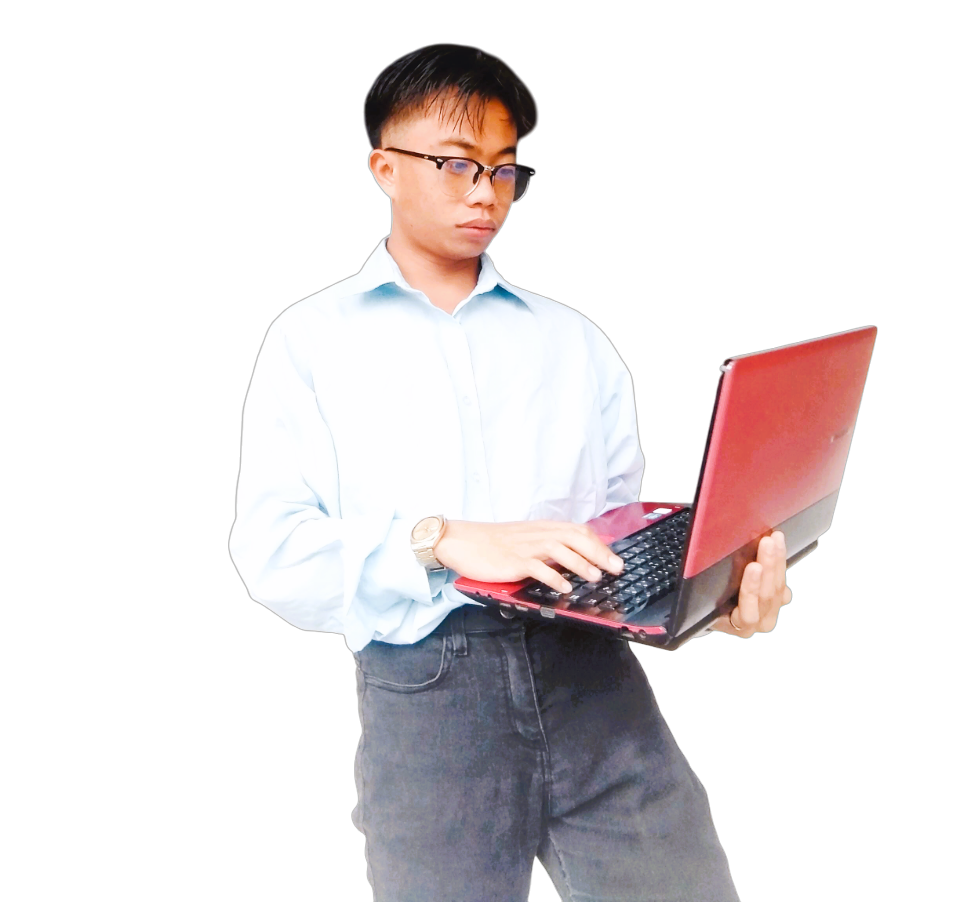
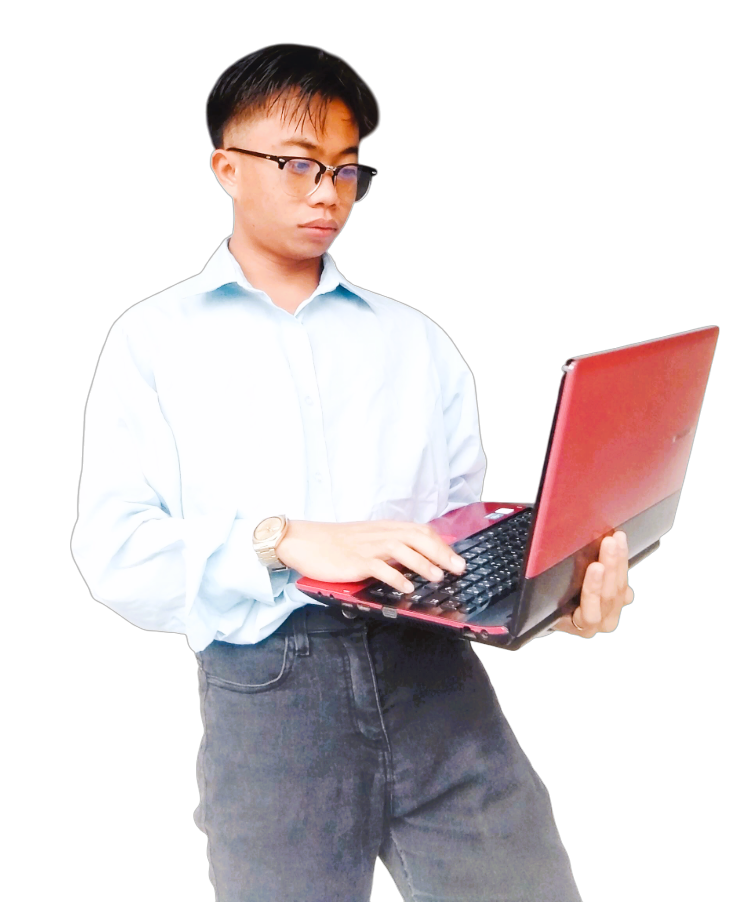
version5

diff --git a/style.css b/style.css
@@ -5,13 +5,13 @@ ul{margin-top: -4%;}
 ul li{list-style: none; display: inline-block; padding: 10px 16px;}
 ul li a{font-size: 16px; font-weight: bold; text-decoration: none; color: white; margin-top: -3%; transition: .4s ease;}
 ul li a:hover{color: orange;}
-.info{margin-left: 7%; margin-top: 7%;}
+.info{margin-left: 5%; margin-top: 7%;}
 .info h1{font-size: 65px; color: white;}
 .info h2{font-size: 18px; letter-spacing: 1px; line-height: 24px;color: white;}
 .info span{color: orange;}
 .info a{text-decoration: none;color: white;background: black;margin: 26px 0;padding: 10px 18px;border-radius: 10px;display: inline-block;transition: .4s ease;}
 .info a:hover{background: purple;}
-.image{width: 30%;height: 60%;position: absolute;right: 100px;bottom: 0;}
+.image{width: 30%;height: 60%;position: absolute;right: 90px;bottom: 0;}
 .image img{position: absolute;height: 140%;left: 40%;transform: translate(-50%);bottom: 0;transition: left 2s ease;}
 .image:hover .person{left: 55%;}
 .icons a{text-decoration: 7%;color: white;}
@@ -22,31 +22,6 @@ ul li a:hover{color: orange;}
 .about{margin-left: 50%;margin-right: 7%;}
 .about h1{font-size: 45px;color: orange;}
 .about h2{font-size: 18px;letter-spacing: 1px;line-height: 24px;color: white;text-align: justify;}
-
-.squares-container {
-    display: grid;
-    grid-template-columns: repeat(3, 1fr);
-    gap: 30px;
-    padding: 40px;
-    max-width: 1200px;
-    margin: 0 auto;
-}
-
-.square {
-    background-color: orange;
-    height: 200px;
-    display: flex;
-    flex-direction: column;
-    justify-content: center;
-    align-items: center;
-    text-align: center;
-    font-family: sans-serif;
-    padding: 10px;
-    box-shadow: 2px 2px 10px orange;
-    transition: transform 0.3s ease;
-    border-radius: 20px;
-}
-
-.square:hover {
-    transform: scale(1.05);
-}
+.squares-container {display: grid; grid-template-columns: repeat(3, 1fr); gap: 30px; padding: 40px; max-width: 1200px; margin: 0 auto;}
+.square {background-color: orange; height: 200px; display: flex; flex-direction: column; justify-content: center; align-items: center; text-align: center; font-family: sans-serif; padding: 10px; box-shadow: 2px 2px 10px orange; transition: transform 0.3s ease; border-radius: 20px}
+.square:hover {transform: scale(1.05);}

diff --git a/output.html b/output.html
@@ -1,0 +1,25 @@
+<!DOCTYPE html>
+<html lang="en">
+<head>
+    <meta charset="UTF-8">
+    <meta name="viewport" content="width=device-width, initial-scale=1.0">
+    <title>About | Sumbi's Portfolio</title>
+    <link rel="stylesheet" href="style.css">
+</head>
+<body>
+    <div class="main">
+
+        <div class="navbar">  
+            <img src="img/logo.png" class="logo">
+            
+            <ul>
+                <li><a href="index.html">HOME</a></li>
+                <li><a href="about.html">ABOUT</a></li>
+                <li><a href="skills.html">SKILLS</a></li>
+                <li><a href="output.html">MY OUTPUTS</a></li>
+                <li><a href="#">CONTACT</a></li>
+            </ul>
+        </div>
+    
+</body>
+</html>

diff --git a/skills.html b/skills.html
@@ -16,7 +16,7 @@
                 <li><a href="index.html">HOME</a></li>
                 <li><a href="about.html">ABOUT</a></li>
                 <li><a href="skills.html">SKILLS</a></li>
-                <li><a href="#">MY OUTPUTS</a></li>
+                <li><a href="output.html">MY OUTPUTS</a></li>
                 <li><a href="#">CONTACT</a></li>
             </ul>
         </div>
@@ -53,10 +53,7 @@
                 <small>Skilled in creating structured, responsive, and visually appealing websites using HTML for markup and CSS for styling.</small>
             </div>
         </div>
-
-        
-
-        
+    
     </div>
 
 </body>

diff --git a/about.html b/about.html
@@ -16,7 +16,7 @@
                 <li><a href="index.html">HOME</a></li>
                 <li><a href="about.html">ABOUT</a></li>
                 <li><a href="skills.html">SKILLS</a></li>
-                <li><a href="#">MY OUTPUTS</a></li>
+                <li><a href="output.html">MY OUTPUTS</a></li>
                 <li><a href="#">CONTACT</a></li>
             </ul>
         </div>

diff --git a/index.html b/index.html
@@ -16,7 +16,7 @@
                 <li><a href="index.html">HOME</a></li>
                 <li><a href="about.html">ABOUT</a></li>
                 <li><a href="skills.html">SKILLS</a></li>
-                <li><a href="#">MY OUTPUTS</a></li>
+                <li><a href="output.html">MY OUTPUTS</a></li>
                 <li><a href="#">CONTACT</a></li>
             </ul>
         </div>
